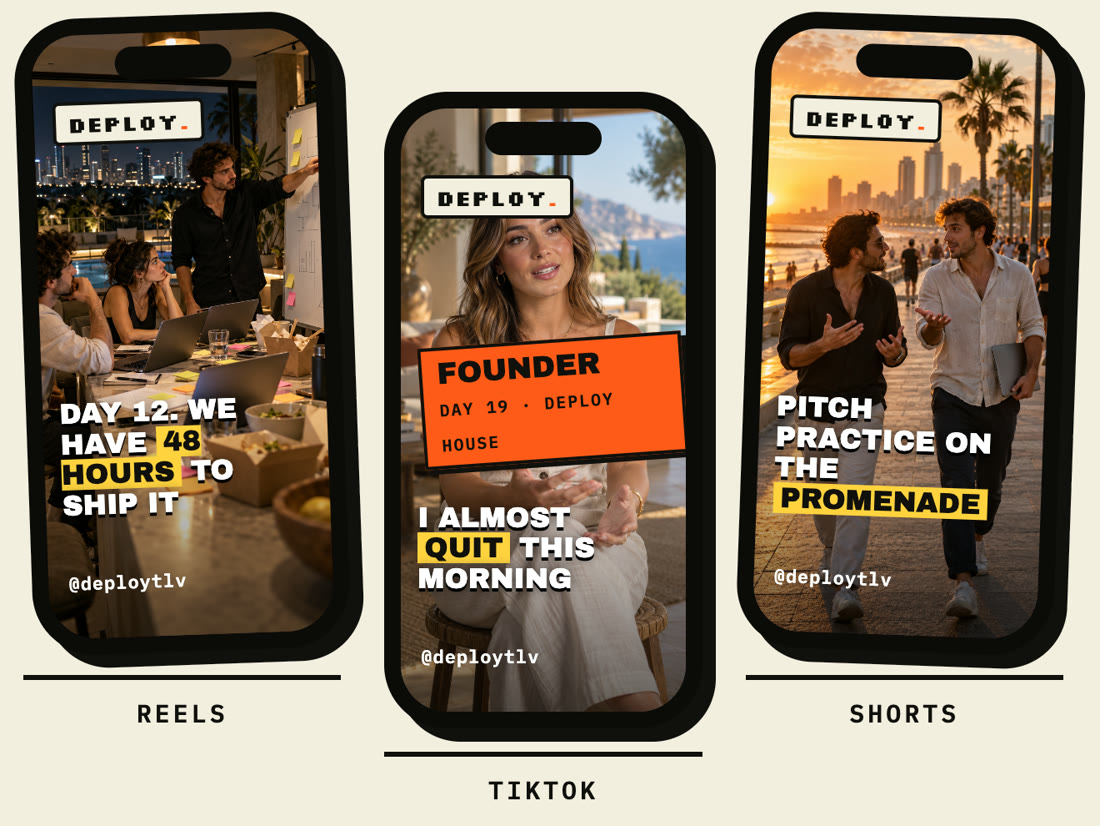
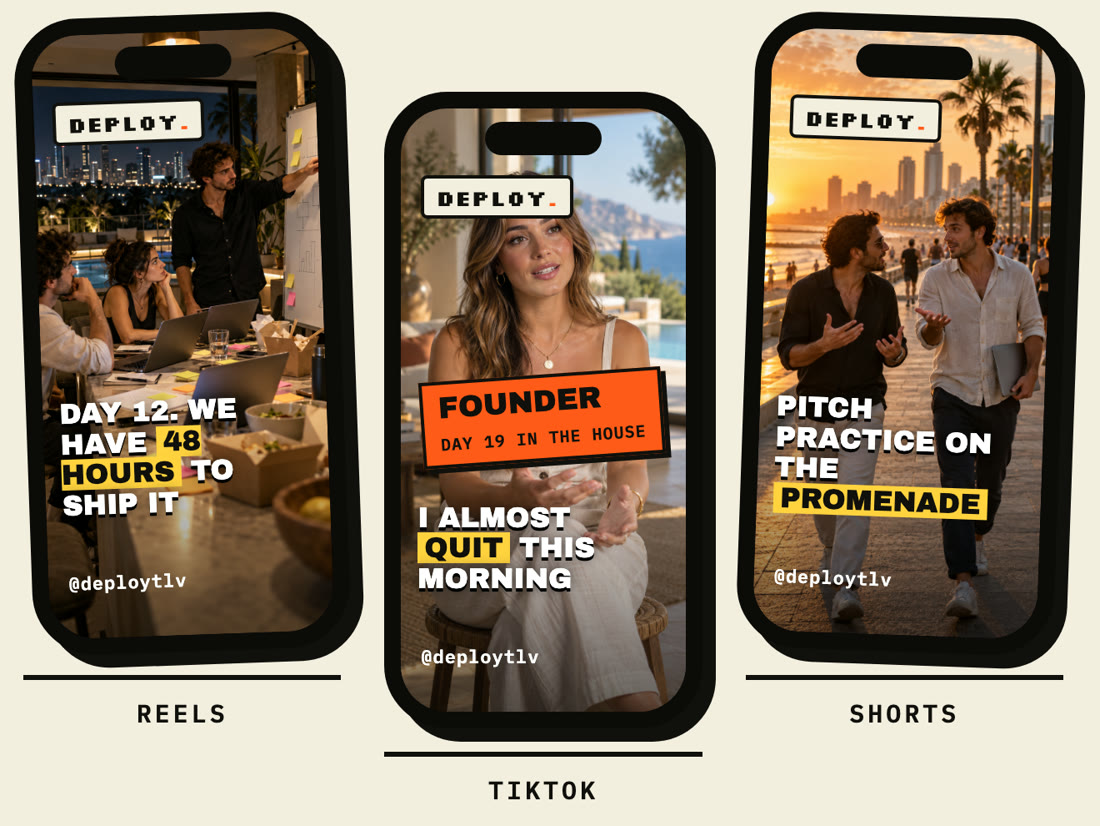
Residency: step 03 uses a real on-the-mic photo and points to the mockup; fix name tag in phone mockup

Changed region(s): [[0.3709, 0.3935, 0.6491, 0.5751]]

diff --git a/residency/index.html b/residency/index.html
@@ -70,6 +70,7 @@
 .maths b{background:linear-gradient(transparent 62%,rgba(255,90,24,.5) 62%);padding:0 .1em}
 .ast{color:inherit;text-decoration:none;font-weight:700;margin-left:.08em}
 .fine{background:var(--paper);color:var(--ink);border-top:2px solid var(--ink);padding:22px 0 30px}.fine p{font:600 14px/1.55 var(--mono);opacity:.8;max-width:62em}.fine b{color:var(--orange-text,var(--orange))}
+.st p a[href="#look"]{font-weight:600;text-decoration:underline;text-decoration-color:var(--orange);text-decoration-thickness:3px;text-underline-offset:4px}
 .look{background:var(--paper)}
 .look .scr{display:grid;grid-template-columns:minmax(0,1.62fr) minmax(0,1fr);gap:40px;align-items:start}
 .look figure{margin:0}.look img{display:block;width:100%;height:auto}
@@ -183,9 +184,8 @@
       <div><span class="num">02</span><h3>30 days in the house</h3><p>The 10 founders build in Tel Aviv for 30 days. We film the whole process: the meetings, the launches, the hard weeks.</p></div>
     </div>
     <div class="st">
-      <div class="pic"><img src="/media/house-phones.jpg" alt="Phones and a laptop showing colourful video thumbnails" loading="lazy"><span class="sticker">FALL 2027</span></div>
-      <div><span class="num">03</span><h3>Release everywhere</h3><p>Season One goes out on many channels at once.</p>
-        <dl><div><dt>Long form</dt><dd>7–10 full episodes</dd></div><div><dt>Short form</dt><dd>100–200 Reels, Shorts and TikToks cut from the season</dd></div><div><dt>Network partner</dt><dd>A potential partner such as Netflix Israel or a local channel. Nothing is signed yet.</dd></div></dl></div>
+      <div class="pic"><img src="/media/house-onthemic.jpg" alt="Myron Shneider interviewing a founder with the orange Deploy mic at a Deploy event" loading="lazy"><span class="sticker">FALL 2027</span></div>
+      <div><span class="num">03</span><h3>Release everywhere</h3><p>The episodes and 100–200 short clips go out everywhere at once, host-led, the way Deploy already makes its shows. <a href="#look">See what it could look like ↓</a></p></div>
     </div>
   </div>
 </div></section>
